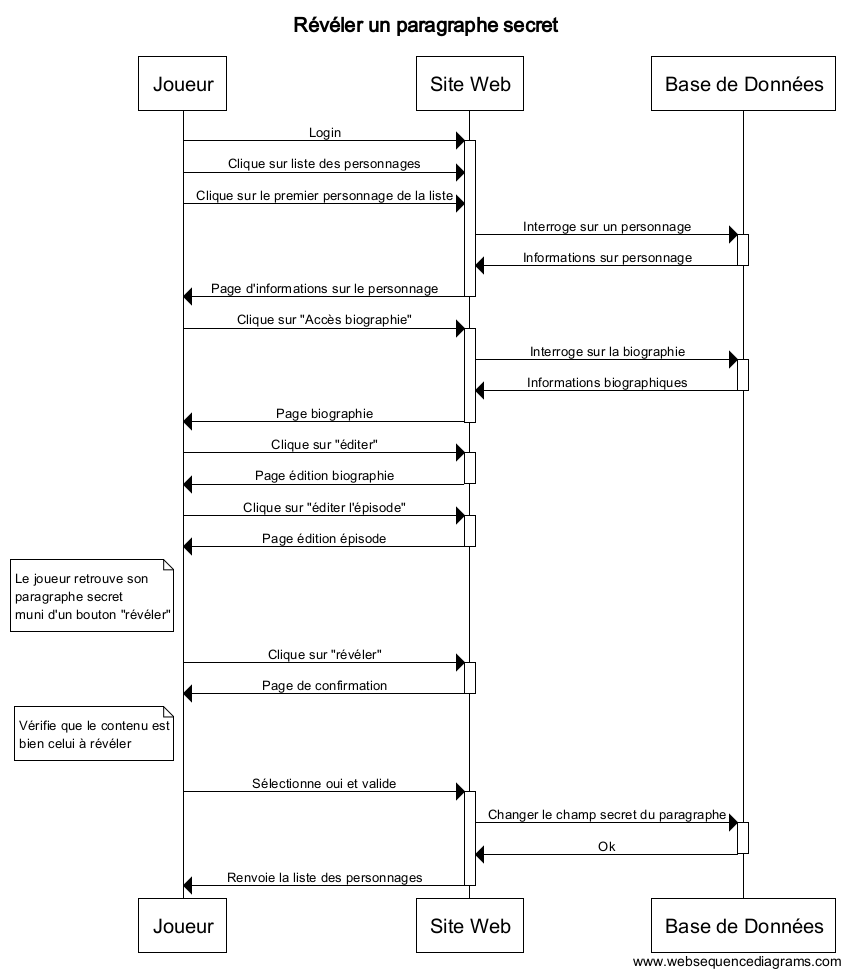
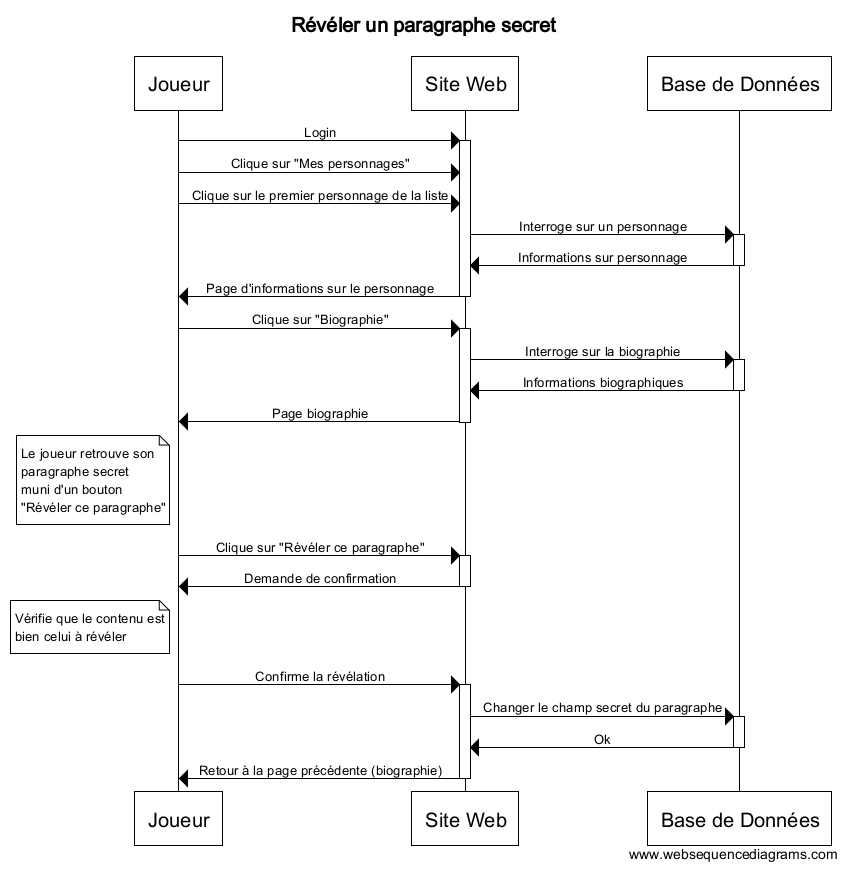
Update diagrammes séquence

diff --git a/rapport/rapport.tex b/rapport/rapport.tex
@@ -171,13 +171,13 @@ Voici les différents cas d'utilisation de l'application issus du cahier des cha
 \subsubsection{Révéler un paragraphe}
 
 \begin{center}
-\includegraphics[scale=0.55]{sequence/RevelerParagAnalyse.png}
+\includegraphics[scale=0.7]{sequence/RevelerParagAnalyse.png}
 \end{center}
 
 \subsubsection{Ajouter un épisode}
 
 \begin{center}
-\includegraphics[scale=0.55]{sequence/AjouterEpisodeBiographie.png}
+\includegraphics[scale=0.7]{sequence/AjouterEpisodeBiographie.png}
 \end{center}
 
 \subsubsection{Changer de meneur}
@@ -322,7 +322,7 @@ L'application traite les requêtes au sein des contrôleurs correspondants, qui 
 \end{center}
 
 \begin{center}
-\includegraphics[scale=0.55]{sequence/Connection.png}
+\includegraphics[scale=0.55]{sequence/Connexion.png}
 \end{center}
 
 \begin{center}
@@ -338,7 +338,11 @@ L'application traite les requêtes au sein des contrôleurs correspondants, qui 
 \end{center}
 
 \begin{center}
-\includegraphics[scale=0.55]{sequence/ValiderEpisodeParMJ.png}
+\includegraphics[scale=0.55]{sequence/ValiderEpisodeParJoueur.png}
+\end{center}
+
+\begin{center}
+\includegraphics[scale=0.45]{sequence/ValiderEpisodeParMJ.png}
 \end{center}
 
 
@@ -546,9 +550,7 @@ Au cours de ce projet nous avons utilisé différents outils de modélisation.
 
 Au niveau des modeleurs UML, il n'est pas évident de trouver des outils gratuits de bonne qualité, et nous avons finalement choisi d'utiliser l'outil GenMyModel qui permet une modélisation simple et collaborative. Un autre outil de relativement bonne qualité aurait pu être PlantUML, mais il a le désavantage de ne pas être entièrement graphique (moins facile à utiliser). Nous avons également testé ArgoUML, mais ce logiciel n'était pas de très bonne qualité.
 
-Certains diagrammes ont également été réalisés à l'aide de Visual Studio (diagramme des cas d'utilisation), ou encore de Web Sequence Diagrams (diagrammes de séquence).
-
-
+Certains diagrammes ont également été réalisés à l'aide de Visual Studio (diagramme des cas d'utilisation), ou encore de Web Sequence Diagrams (diagrammes de séquence, pas d'export vectoriel sans premium).
 
 
 \end{document}
